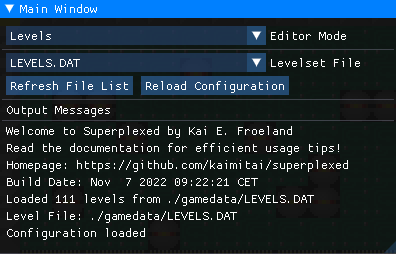
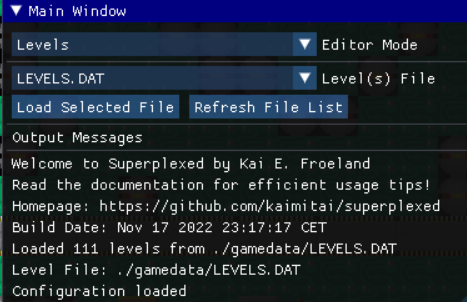
Update docs for release 0.2

diff --git a/superplexed/docs/readme.html b/superplexed/docs/readme.html
@@ -3,7 +3,7 @@
 
 <head>
     <meta charset="UTF-8">
-    <title>Superplexed v0.11 - Documentation</title>
+    <title>Superplexed v0.2 - Documentation</title>
     <link rel="stylesheet" href="style.css">
 </head>
 
@@ -60,7 +60,7 @@
 
                 <hr>
 
-                <header>Superplexed (version 0.11)</header>
+                <header>Superplexed (version 0.2)</header>
 
                 <p>Thank you for checking out <a href="https://github.com/kaimitai/superplexed/">Superplexed</a>. With this tool you will be able to create and alter levels for Supaplex, as well as - with the help of an external bmp file editor - modify the graphics in the game. Check out the various sections of this document for an explanation of the program's functionality.</p>
 
@@ -75,16 +75,18 @@
                 <header>Basics</header>
 
                 <p>
-                    This editor will let you edit the game data for Supaplex levelsets (LEVELS.DAT/LEVELS.Dxx), as well as the game's graphics and palettes. Included with the editor is the latest version of Supaplex for DOS, and starting the program out of the box will load these files. See the configuration section for how to alter files in other locations.
+                    This editor will let you edit the game data for Supaplex levelset files (LEVELS.DAT/LEVELS.Dxx), single level files (SP/xml) as well as the game's graphics and palettes. Included with the editor is the latest version of Supaplex for DOS, and starting the program out of the box will load these files. See the configuration section for how to alter files in other locations.
                 </p>
 
                 <p>
                     To play the game, the original executable and game data are included, but a <a href="https://github.com/sergiou87/open-supaplex">modern source port</a> can be a good alternative.
                 </p>
 
-                <p>When the editor starts successfully, it will tell you which configuration is loaded, which directory it uses as the working directory, and which levelset file was loaded. If LEVELS.DAT cannot be found, the application will initialize a levelset with one empty level.</p>
+                <p>When the editor starts successfully, it will tell you which configuration is loaded, which directory it uses as the working directory, and which level/levelset file was loaded. If LEVELS.DAT cannot be found, the application will initialize a levelset with one empty level.</p>
 
-                <p>Some files need to be in the project folder for the application to start at all. These are the following graphics files: FIXED.DAT, MOVING.DAT and PALETTES.DAT. The application needs these files to generate its graphics.</p>
+                <p>The graphics files FIXED.DAT, MOVING.DAT and PALETTES.DAT will initialize the graphics, if found in the project folder. Otherwise the application will initialize with the original Supaplex graphics.</p>
+				
+				<p>The application can also be started from the command-line with path to a level(s) file as parameter. This means you can drag and drop a levelfile on the application to immediately load the file, at least on Windows.</p>
 
             </section>
 
@@ -94,13 +96,13 @@
 
                 <header>Configuration</header>
 
-                <p>When opening the editor, the program looks for a file spconfig.xml in the same directory as the executable. This is a configuration XML which lets you set the project folder - the folder from which files will be read and written to.</p>
+                <p>When opening the editor, the program looks for a file spconfig.xml in the same directory as the executable. This is a configuration XML which lets you set the project folder - the folder from which files will be read and written to, and undo history.</p>
 
-                <p>By default the file points to the gamedata folder which ships with the editor. If spconfig.xml cannot be found, the project folder will be the same as the executable folder.</p>
-
-                <p>
-                    The configuration is loaded when the program starts, but can be reloaded during runtime if you want to work in a different location.
-                </p>
+                <p>By default the file points to the gamedata folder which ships with the editor. If spconfig.xml cannot be found, the project folder will be the same as the executable folder, and the undo history will be 200.</p>
+				
+				<p>
+				   The configuration file can also define a levelset file which will be generated on startup, which can import files from different sources. All level file formats are supported for import, but for dat-levelset files you also need to specify which level number to import. See the <a href="./examples/spconfig_predefined_levelset.xml">example xml</a>.
+				</p>
 
             </section>
 
@@ -116,9 +118,9 @@
                 </p>
                 <ul>
                     <li><b>Editor Mode</b> dropdown: Lets you choose if you want to edit levels, graphics or savefiles.</li>
-                    <li><b>Levelset File</b> dropdown: Lets you choose the context for saving and loading files. Only relevant if you are working on different levelsets in the same folder. The default levelset is LEVELS.DAT, but other possible names are LEVELS.Dxx where xx is a number from 00 to 99. This is in line with how the latest SpeedFix version of Supaplex handles custom levelsets.</li>
+                    <li><b>Level(s) File</b> dropdown: Shows all potential level files in the project folder; DAT/Dxx, SP and xml</li>
+					<li><b>Load Selected File</b> button: Will load the level or levelset file in the level editor.</li>
                     <li><b>Refresh File List</b> button: Will scan the project folder for levelsets, and repopulate the dropdown for levelset files.</li>
-                    <li><b>Reload Configuration</b> button: Reloads spconfig.xml if you want to change project folder during runtime.</li>
                     <li><b>Output Messages</b>: A running list of user messages generated by the editor.</li>
                 </ul>
 
@@ -136,13 +138,13 @@
                 <ul>
                     <li><b>Level</b> slidebar: The current level in the levelset being edited.</li>
                     <li><b>Title</b>: The level's title. When editing the title, the editor will ensure you are only using characters that can be rendered in the game. (see images CHARS8 and CHARS6)</li>
-                    <li><b>#Infotrons</b>: The number of infotrons required to solve the level. If set to 0, the required number will be all Infotrons placed in the level</li>
+                    <li><b>Infotrons</b>: The number of infotrons required to solve the level. If set to 0, the required number will be all Infotrons placed in the level. This slider has a tooltip showing the number of infotrons and electrons currently in the level.</li>
                     <li><b>Gravity</b> checkbox: Whether the level starts with gravity turned on</li>
                     <li><b>Freeze Zonks</b>: Whether the level starts with Zonks frozen</li>
                     <li><b>Insert Level</b> button: Will add a new empty level after the current one. If Shift is held, the level will be inserted before the current one.</li>
                     <li><b>Delete Level</b>: Will erase the current level from the levelset. Hold Ctrl to use</li>
-                    <li><b>Save DAT</b>: Will save the levelset to LEVELS.DAT, or LEVELS.Dxx in the case of an other levelset.</li>
-                    <li><b>Load DAT</b>: Will load the levelset. Hold Ctrl to use this button</li>
+                    <li><b>Save DAT</b>: Will save the levelset to LEVELS.DAT, or LEVELS.Dxx in the case of an other levelset. Only available when a levelset file is loaded.</li>
+                    <li><b>Load DAT</b>: Will load the levelset. Hold Ctrl to use this button. Only available when a levelset file is loaded.</li>
                     <li><b>Save/Load xml</b>: Will save or load the current level as an xml file. Hold shift to save/load all levels. Hold Ctrl to load.</li>
                     <li><b>Save/Load SP</b>: Will save or load the current level as an SP file. Hold shift to save/load all levels. Hold Ctrl to load.</li>
                     <li><b>Save bmp</b>: Will save the current level as a 256-color bmp image. Hold shift to save all levels. Output bmp files will indicate medatada properties for the level itself (gravity and freeze zonks), as well as for the special ports - UNLESS the animate ports checkbox is disabled.</li>
